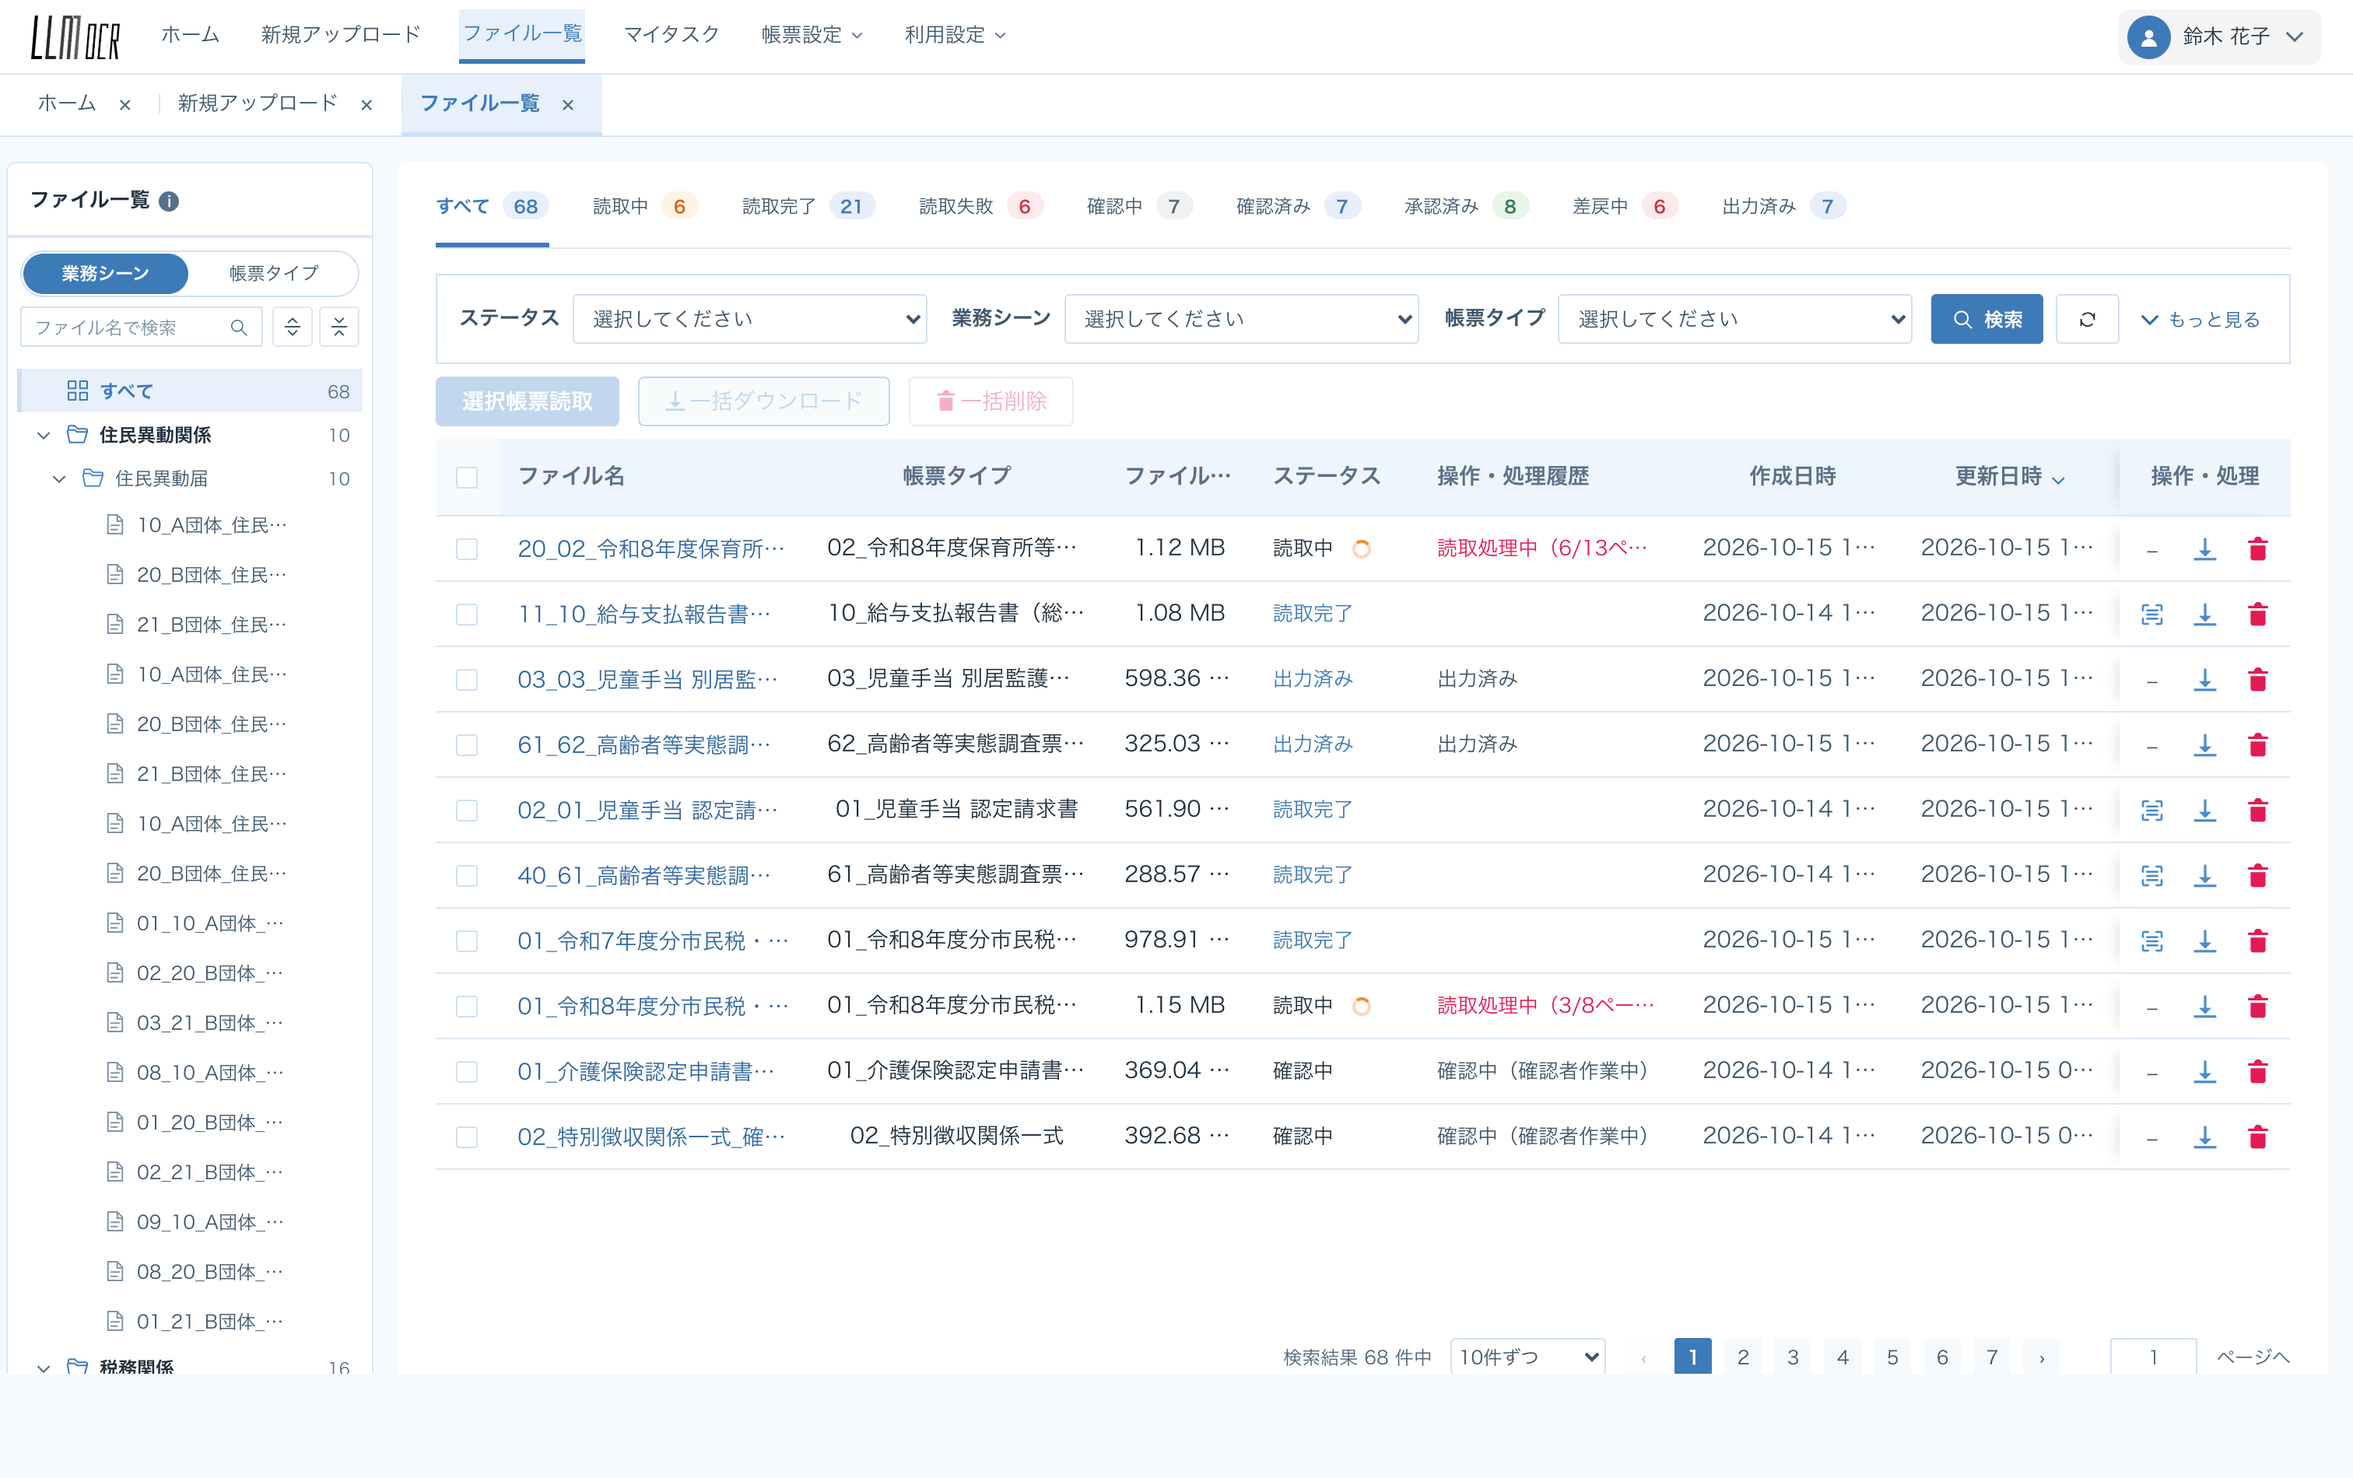
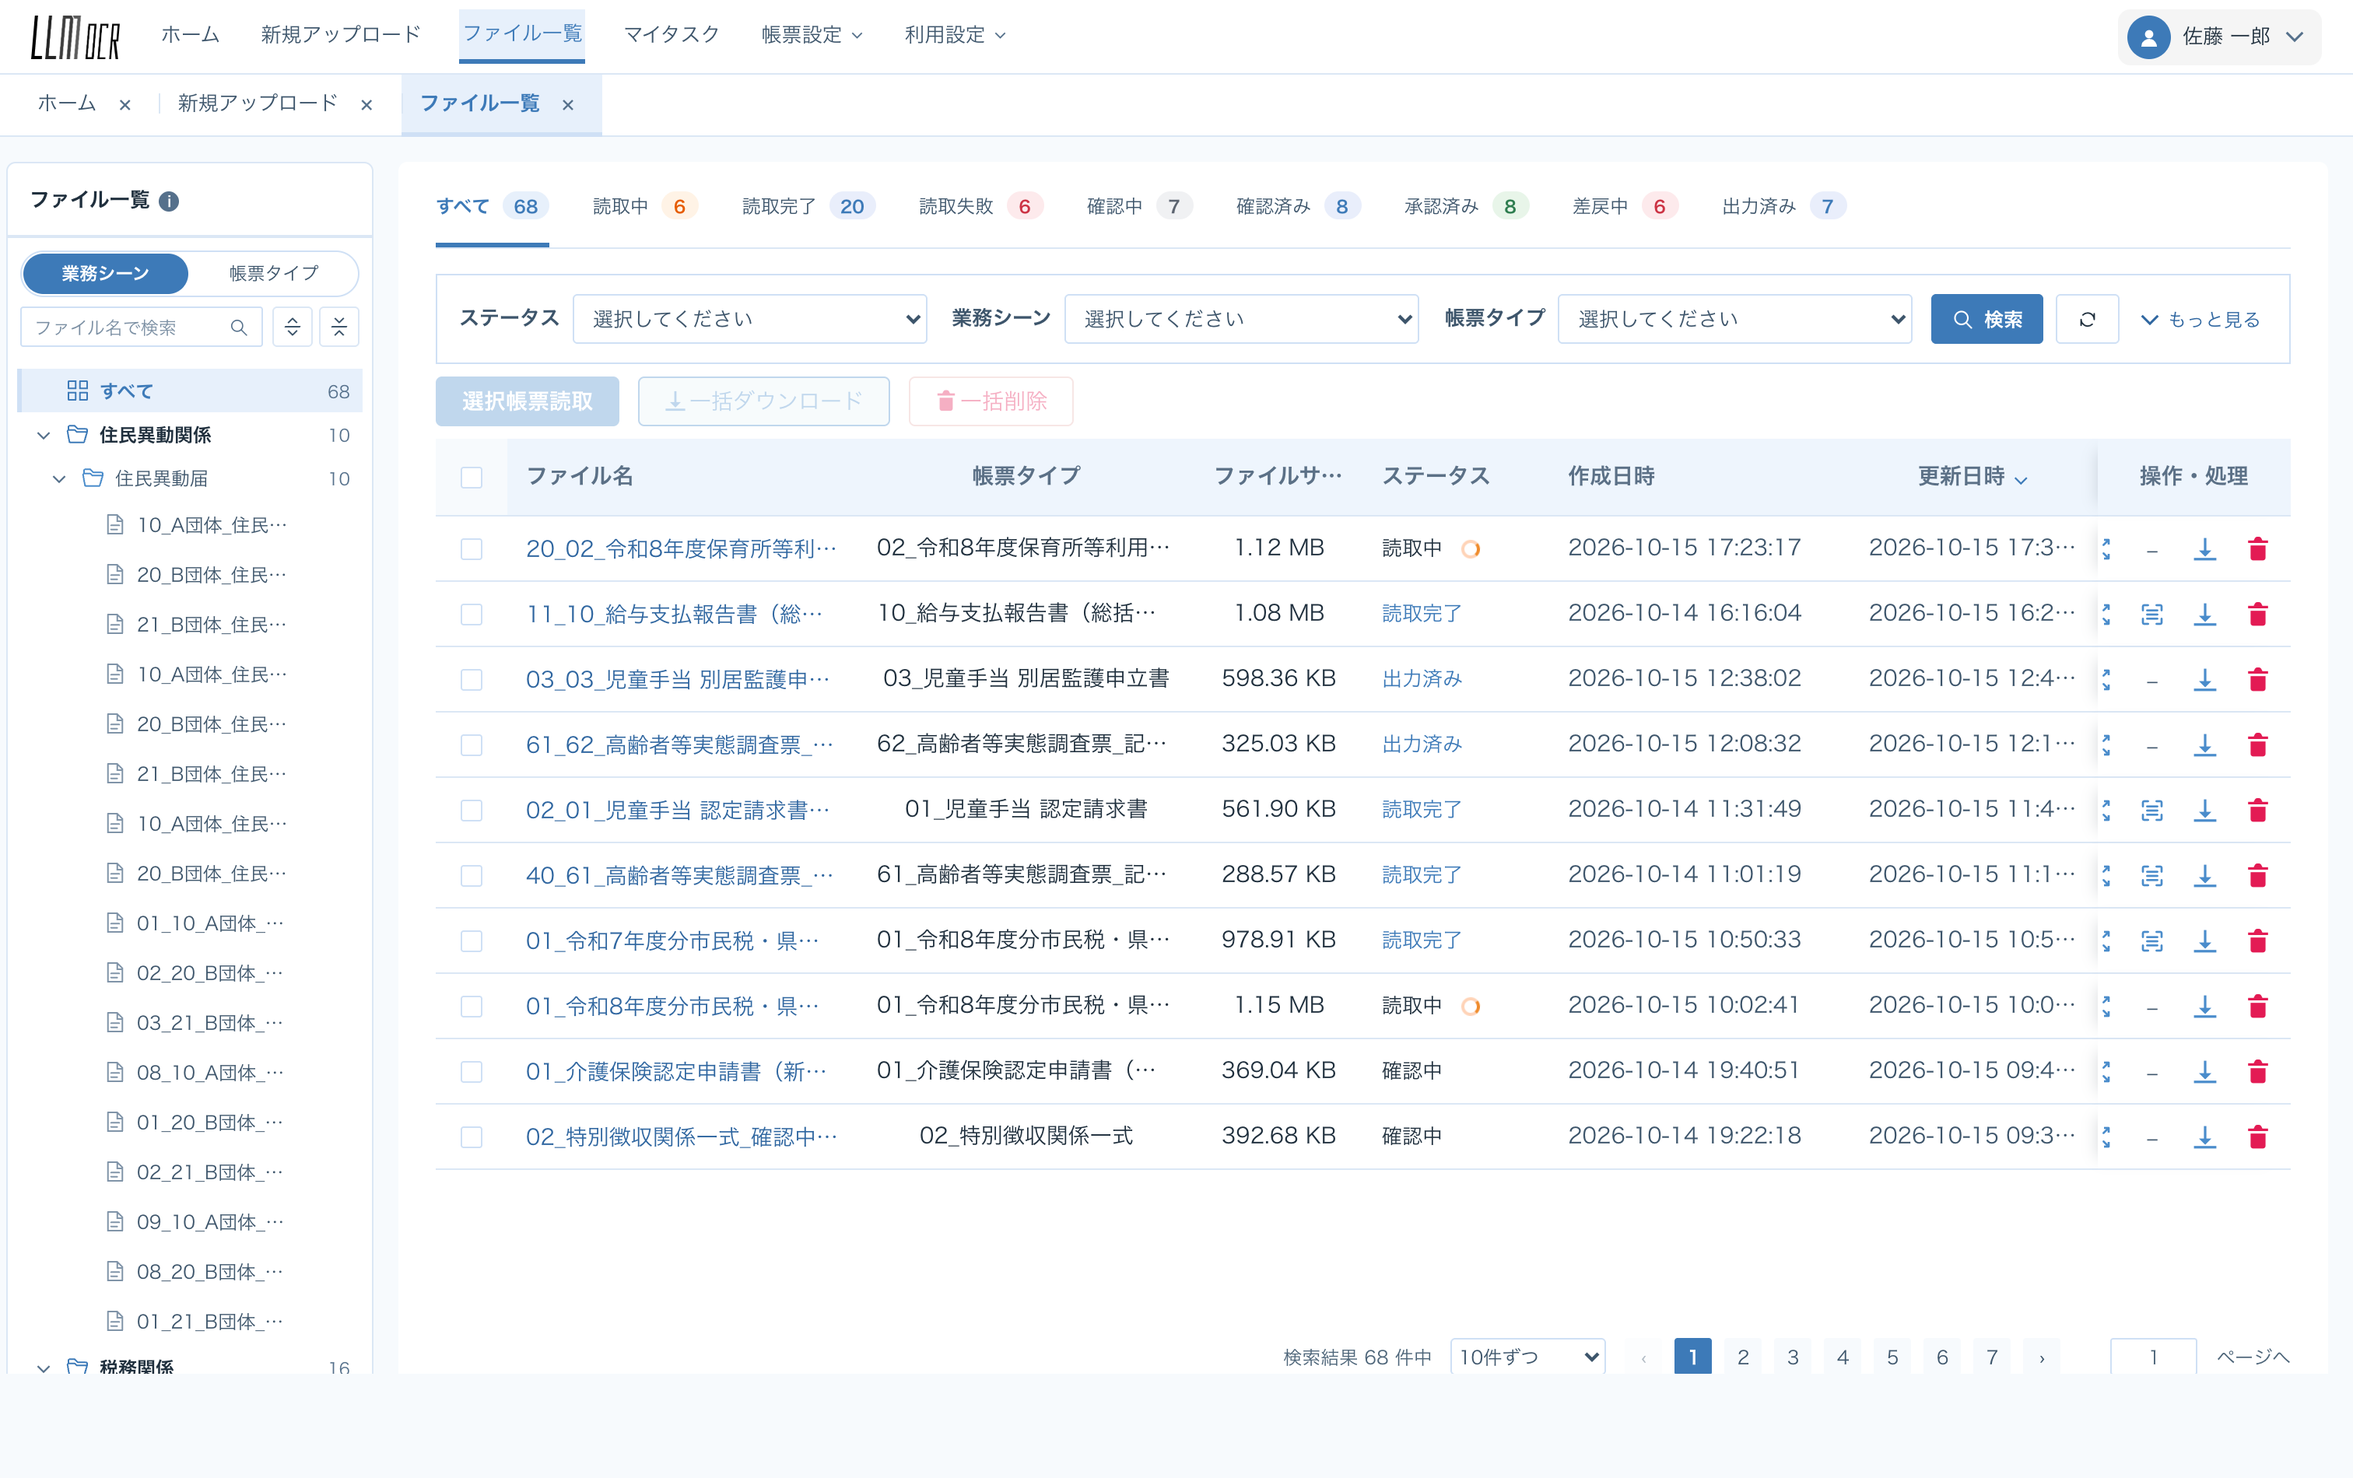
feat: ファイル一覧から「操作・処理履歴」列を削除
- 一覧は一覧性を優先し、履歴は詳細／マイタスク側で見る（列幅の圧迫も解消）
- 生成モックの history を「操作記録（誰が何をしたか）」に変更（状態文言を排除）
- 履歴の正規化ブロックを注入（状態テキストは空欄、失敗・差戻などの事象は残す）
- 一覧の列幅（CSS）を 8 列に調整、dist/ も再ビルド

diff --git a/dist/app.js b/dist/app.js
@@ -883,12 +883,18 @@ var MOCK_EXTRA_APPLIED = true;
     var readAt = (['done', 'confirmed', 'approved', 'returned', 'exported', 'failed'].indexOf(st) >= 0) ? stamp2 : null;
     var confAt = (['confirmed', 'approved', 'returned', 'exported'].indexOf(st) >= 0) ? stamp2 : null;
     var apprAt = (['approved', 'exported'].indexOf(st) >= 0) ? stamp2 : null;
+    /* 操作・処理履歴＝「誰が何をしたか」の記録。状態そのものは入れない（処理中は空） */
+    var names = ['佐藤 一郎', '鈴木 花子', '高橋 健', '田中 実', '伊藤 由美', '渡辺 修', '山本 彩', '中村 亮'];
     var hist = {
-      done: '読取完了', confirmed: '確認済み（承認待ち）', approved: '承認済み',
-      exported: '出力済み', failed: '帳票の処理中にエラーが発生',
-      returned: '差戻中（確認者より差戻）', checking: '確認中（確認者作業中）',
-      reading: '読取処理中（' + (1 + (k % 8)) + '/' + (8 + (k % 12)) + 'ページ）'
-    }[st] || '読取完了';
+      done: '',
+      confirmed: '確認担当者: ' + names[k % names.length],
+      approved: '承認担当者: ' + names[(k + 3) % names.length] + '（2段目まで完了）',
+      exported: '出力担当者: ' + names[(k + 5) % names.length] + '（CSV）',
+      failed: '読取に失敗しました（再読取が必要）',
+      returned: '差戻: 確認者へ（記載不備）',
+      checking: '',
+      reading: ''
+    }[st] || '';
     var u = users[k % users.length];
     FILES.push([id, nm, lay.id, size, st, hist, stamp, stamp2, readAt, confAt, apprAt, u, u, u]);
   }
@@ -2887,7 +2893,7 @@ function renderTable() {
         <td class="result-type" title="${esc(dispLayout(f.layout))}">${esc(dispLayout(f.layout))}</td>
         <td class="result-size">${fmtSize(f.size)}</td>
         <td><span class="st ${stCls(f.status)}" title="${esc(STATUS[f.status].label)}">${esc(STATUS[f.status].label)}${f.status === 'classifying' || f.status === 'reading' ? '<span class="spin"></span>' : ''}</span></td>
-        <td class="hist ${histCls(f.status)}" title="${esc(f.history)}">${f.status === 'done' ? '' : esc(f.history)}</td>
+        
         <td class="col-created" style="white-space:nowrap;color:var(--text-2)">${esc(f.createdAt)}</td>
         <td style="white-space:nowrap;color:var(--text-2)">${esc(f.updatedAt)}</td>
         <td class="result-actions-cell"><div class="acts act-icons">${(() => {
@@ -2936,14 +2942,13 @@ function renderTable() {
         <col style="width:190px">
         <col style="width:110px">
         <col style="width:120px">
+        <col style="width:160px">
+        <col style="width:160px">
         <col style="width:170px">
-        <col style="width:160px">
-        <col style="width:160px">
-        <col style="width:200px">
       </colgroup>
       <thead><tr>
         <th><input type="checkbox" class="cb" data-pickall="1" aria-label="このページを全選択" ${rows.length && rows.every((f) => state.picked[f.id]) ? 'checked' : ''} /></th>
-        <th data-sort="name" class="col-name" style="cursor:pointer">ファイル名${arrow('name')}</th>${th('layout', '帳票タイプ')}${th('size', 'ファイルサイズ')}${th('status', 'ステータス')}${th('history', '操作・処理履歴')}${th('createdAt', '作成日時', 'class="col-created"')}${th('updatedAt', '更新日時')}<th class="result-actions-cell centered">操作・処理</th>
+        <th data-sort="name" class="col-name" style="cursor:pointer">ファイル名${arrow('name')}</th>${th('layout', '帳票タイプ')}${th('size', 'ファイルサイズ')}${th('status', 'ステータス')}${th('createdAt', '作成日時', 'class="col-created"')}${th('updatedAt', '更新日時')}<th class="result-actions-cell centered">操作・処理</th>
       </tr></thead>
       <tbody>${body}</tbody>
     </table>
@@ -3932,6 +3937,38 @@ function renderAccessUrlTab() {
 }
 
 /** ユーザー追加／編集ダイアログ（製品の「ユーザー追加」に合わせる） */
+
+/* ══ 一覧の「操作・処理履歴」を操作記録に正規化（serve.py 注入） ══
+   状態そのもの（読取完了／出力済み／読取中…）は履歴ではないので空にし、
+   確認・承認・出力などの実行者が分かる記録だけを残す。 */
+(function normalizeFileHistory() {
+  var STATUS_TEXT = /^(読取完了|読取中|読取待ち|確認中|確認済み（承認待ち）|承認済み|出力済み|分類中|差戻中|読取失敗|—|-)$/;
+  var PROGRESS_TEXT = /(処理中|作業中|より差戻|ページ）$)/;
+  FILES_DATA.forEach(function (f) {
+    var h = String(f.history || '').trim();
+    if (!h || h === '—') { f.history = ''; return; }
+    if (STATUS_TEXT.test(h) || PROGRESS_TEXT.test(h)) {
+      /* 操作記録があればそれを使い、無ければ空欄（＝まだ操作されていない） */
+      var recs = (f.flow || []).filter(function (x) { return !x.voided; });
+      f.history = recs.length ? recordText(recs[recs.length - 1]) : '';
+      return;
+    }
+    if (/^[^:：]*(担当者|実行者)[:：]/.test(h)) return;   /* すでに操作記録 */
+    f.history = h;                                        /* 失敗・差戻などの事象は残す */
+  });
+  /* 操作記録の文言：確認担当者: ○○ ／ 承認1担当者: ○○ ／ 出力担当者: ○○（CSV） */
+  function recordText(r) {
+    var who = r.user || '';
+    var act = String(r.action || '');
+    if (!act) return who ? '実行者: ' + who : '';
+    if (act.indexOf('差戻') === 0) return '差戻: 確認者へ' + (r.comment ? '（' + r.comment + '）' : '');
+    if (act === '出力' || act === 'CSV出力') return '出力担当者: ' + who + '（CSV）';
+    if (act === '確認') return '確認担当者: ' + who;
+    return act + '担当者: ' + who;                        /* 承認1 / 承認2 … */
+  }
+  window.__recordText = recordText;
+})();
+
 
 /* ══ 2 段承認のモックデータ（serve.py 注入） ══
    帳票タイプを 2 段承認にし、1 段目だけ承認済みのファイルを数件用意する。 */

diff --git a/dist/index.html b/dist/index.html
@@ -67,7 +67,7 @@
 .result-table th:nth-child(6),  .result-table td:nth-child(6)  { width: 168px; }
 .result-table th:nth-child(7),  .result-table td:nth-child(7)  { width: 138px; }
 .result-table th:nth-child(8),  .result-table td:nth-child(8)  { width: 138px; }
-.result-table th:nth-child(9),  .result-table td:nth-child(9)  { width: 108px; }
+.result-table th:nth-child(8),  .result-table td:nth-child(8)  { width: 108px; }
 .result-table th, .result-table td { overflow: hidden; text-overflow: ellipsis; }
 .result-table td:nth-child(2), .result-table td:nth-child(3),
 .result-table td:nth-child(6) { white-space: nowrap; }

diff --git a/demo/serve.py b/demo/serve.py
@@ -540,12 +540,18 @@ var MOCK_EXTRA_APPLIED = true;
     var readAt = (['done', 'confirmed', 'approved', 'returned', 'exported', 'failed'].indexOf(st) >= 0) ? stamp2 : null;
     var confAt = (['confirmed', 'approved', 'returned', 'exported'].indexOf(st) >= 0) ? stamp2 : null;
     var apprAt = (['approved', 'exported'].indexOf(st) >= 0) ? stamp2 : null;
+    /* 操作・処理履歴＝「誰が何をしたか」の記録。状態そのものは入れない（処理中は空） */
+    var names = ['佐藤 一郎', '鈴木 花子', '高橋 健', '田中 実', '伊藤 由美', '渡辺 修', '山本 彩', '中村 亮'];
     var hist = {
-      done: '読取完了', confirmed: '確認済み（承認待ち）', approved: '承認済み',
-      exported: '出力済み', failed: '帳票の処理中にエラーが発生',
-      returned: '差戻中（確認者より差戻）', checking: '確認中（確認者作業中）',
-      reading: '読取処理中（' + (1 + (k % 8)) + '/' + (8 + (k % 12)) + 'ページ）'
-    }[st] || '読取完了';
+      done: '',
+      confirmed: '確認担当者: ' + names[k % names.length],
+      approved: '承認担当者: ' + names[(k + 3) % names.length] + '（2段目まで完了）',
+      exported: '出力担当者: ' + names[(k + 5) % names.length] + '（CSV）',
+      failed: '読取に失敗しました（再読取が必要）',
+      returned: '差戻: 確認者へ（記載不備）',
+      checking: '',
+      reading: ''
+    }[st] || '';
     var u = users[k % users.length];
     FILES.push([id, nm, lay.id, size, st, hist, stamp, stamp2, readAt, confAt, apprAt, u, u, u]);
   }
@@ -688,7 +694,7 @@ RESULT_FREEZE_CSS = """
 .result-table th:nth-child(6),  .result-table td:nth-child(6)  { width: 168px; }
 .result-table th:nth-child(7),  .result-table td:nth-child(7)  { width: 138px; }
 .result-table th:nth-child(8),  .result-table td:nth-child(8)  { width: 138px; }
-.result-table th:nth-child(9),  .result-table td:nth-child(9)  { width: 108px; }
+.result-table th:nth-child(8),  .result-table td:nth-child(8)  { width: 108px; }
 .result-table th, .result-table td { overflow: hidden; text-overflow: ellipsis; }
 .result-table td:nth-child(2), .result-table td:nth-child(3),
 .result-table td:nth-child(6) { white-space: nowrap; }
@@ -1038,6 +1044,63 @@ def apply_mytask_filters(src):
     if anchor in src:
         src = src.replace(anchor, MYTASK_KIND_STAGE_FILTERS + anchor, 1)
     return src
+
+
+HISTORY_NORMALIZE = """
+/* ══ 一覧の「操作・処理履歴」を操作記録に正規化（serve.py 注入） ══
+   状態そのもの（読取完了／出力済み／読取中…）は履歴ではないので空にし、
+   確認・承認・出力などの実行者が分かる記録だけを残す。 */
+(function normalizeFileHistory() {
+  var STATUS_TEXT = /^(読取完了|読取中|読取待ち|確認中|確認済み（承認待ち）|承認済み|出力済み|分類中|差戻中|読取失敗|—|-)$/;
+  var PROGRESS_TEXT = /(処理中|作業中|より差戻|ページ）$)/;
+  FILES_DATA.forEach(function (f) {
+    var h = String(f.history || '').trim();
+    if (!h || h === '—') { f.history = ''; return; }
+    if (STATUS_TEXT.test(h) || PROGRESS_TEXT.test(h)) {
+      /* 操作記録があればそれを使い、無ければ空欄（＝まだ操作されていない） */
+      var recs = (f.flow || []).filter(function (x) { return !x.voided; });
+      f.history = recs.length ? recordText(recs[recs.length - 1]) : '';
+      return;
+    }
+    if (/^[^:：]*(担当者|実行者)[:：]/.test(h)) return;   /* すでに操作記録 */
+    f.history = h;                                        /* 失敗・差戻などの事象は残す */
+  });
+  /* 操作記録の文言：確認担当者: ○○ ／ 承認1担当者: ○○ ／ 出力担当者: ○○（CSV） */
+  function recordText(r) {
+    var who = r.user || '';
+    var act = String(r.action || '');
+    if (!act) return who ? '実行者: ' + who : '';
+    if (act.indexOf('差戻') === 0) return '差戻: 確認者へ' + (r.comment ? '（' + r.comment + '）' : '');
+    if (act === '出力' || act === 'CSV出力') return '出力担当者: ' + who + '（CSV）';
+    if (act === '確認') return '確認担当者: ' + who;
+    return act + '担当者: ' + who;                        /* 承認1 / 承認2 … */
+  }
+  window.__recordText = recordText;
+})();
+"""
+
+
+def apply_drop_history_column(src):
+    """ファイル一覧の「操作・処理履歴」列を削除する（履歴はマイタスク／ファイル詳細で見る）。"""
+    if '"hist " +' in src or 'class="hist ' not in src:
+        return src
+    # 見出し
+    src = src.replace("${th('history', '操作・処理履歴')}", "", 1)
+    # セル
+    src = re.sub(r'<td class="hist \$\{histCls\(f\.status\)\}"[^>]*>\$\{[^<]*?</td>', '', src, count=1)
+    # colgroup（履歴列＝6 番目の col）… 実際は width:200 の 1 つ目
+    src = src.replace('<col style="width:120px">\n        <col style="width:200px">', '<col style="width:120px">', 1)
+    return src
+
+
+def apply_history_normalize(src):
+    """一覧の「操作・処理履歴」を操作記録に正規化するブロックを注入する。"""
+    if 'normalizeFileHistory' in src:
+        return src
+    anchor = "function renderUserAddDialog"
+    if anchor not in src:
+        return src
+    return src.replace(anchor, HISTORY_NORMALIZE + "\n" + anchor, 1)
 
 
 def apply_two_stage_mock(src):
@@ -1768,6 +1831,8 @@ def patched_app_js(path):
     patched = apply_group_category_scope(patched)
     patched = apply_notes_to_comments(patched)
     patched = apply_mytask_filters(patched)
+    patched = apply_drop_history_column(patched)
+    patched = apply_history_normalize(patched)
     patched = apply_two_stage_mock(patched)
     patched = apply_file_click_preview(patched)
     patched, _stage_report = _patch_stage_selection(patched)
